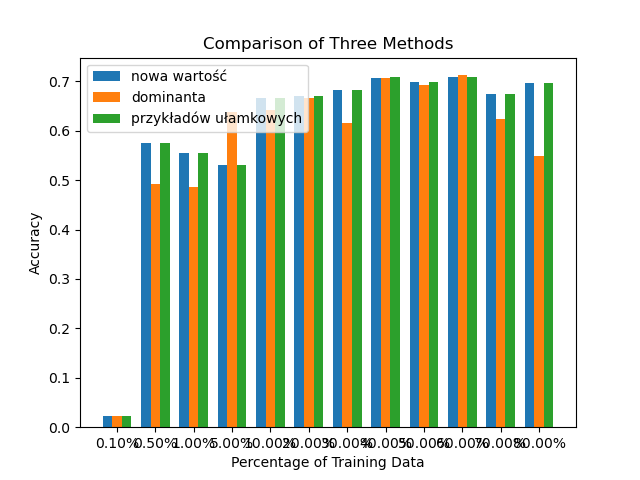
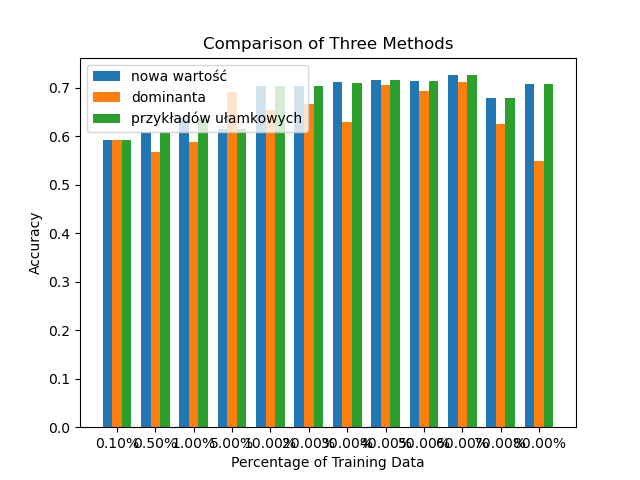
add visualization for f1 score and default prediction for decision tree

diff --git a/main.py b/main.py
@@ -1,9 +1,10 @@
 from dataset_utils import get_data, split_random_to_train_and_test_data, split_random_to_train_and_test_data_diff_methods
 from decision_tree import DecisionTree
-from visualization_utils import visualize_acc, visualize_metrics_of_confusion_matrix, visualize_class_counter, visualize_tree, visulate_acc_per_input_method, visulate_acc_per_replacement_method
+from visualization_utils import visualize_acc, visualize_metrics_of_confusion_matrix, visualize_class_counter, visualize_tree, visulate_acc_per_input_method, visulate_acc_per_replacement_method, visulate_f1_per_replacement_method
 from utils import ATTRS_NAMES, CLASS_VALUES, MAX_DEPTH, PERCENT_OF_TRAIN_DATA, ATTR_TO_INDEX
 import numpy as np
 import random
+from sklearn.metrics import f1_score, confusion_matrix
 
 row_attrs, class_vals = get_data("car.data")
 """
@@ -133,28 +134,46 @@ visulate_acc_per_input_method(list_of_acc, labels_for_percent_of_train_data)
 list_of_percent_train_data = [0.1, 0.5, 1, 5, 10, 20, 30, 40, 50, 60, 70, 80]
 labels_for_percent_of_train_data = []
 list_of_acc = []
+list_of_f1 = []
+
+unique_values, counts = np.unique(class_vals, return_counts=True)
+default_prediction = unique_values[np.argmax(counts)]
+
 for i in list_of_percent_train_data:
 
     print(i)
     train_data, test_data, train_data_mode, test_data_mode, train_data_distrib, test_data_distrib = \
         split_random_to_train_and_test_data_diff_methods(row_attrs, class_vals, i)
 
-    decision_tree = DecisionTree(train_data, MAX_DEPTH, method='gini', FEM=False)
+    decision_tree = DecisionTree(train_data, MAX_DEPTH, default_prediction, method='gini', FEM=False)
     acc = decision_tree.calculate_acc(test_data)
+    cm = confusion_matrix(test_data[1], [decision_tree.predict_decision_tree(row) for i, row in enumerate(test_data[0]["attrs_vals"])])
+    f1 = f1_score(test_data[1], [decision_tree.predict_decision_tree(row) for i, row in enumerate(test_data[0]["attrs_vals"])], average='weighted')
     list_of_acc.append(acc)
+    list_of_f1.append(f1)
     print(acc)
+    print(f1)
 
-    decision_tree = DecisionTree(train_data_mode, MAX_DEPTH, method='gini', FEM=False)
+    decision_tree = DecisionTree(train_data_mode, MAX_DEPTH, default_prediction, method='gini', FEM=False)
     acc = decision_tree.calculate_acc(test_data_mode)
+    cm = confusion_matrix(test_data_mode[1], [decision_tree.predict_decision_tree(row) for i, row in enumerate(test_data_mode[0]["attrs_vals"])])
+    f1 = f1_score(test_data_mode[1], [decision_tree.predict_decision_tree(row) for i, row in enumerate(test_data_mode[0]["attrs_vals"])], average='weighted')
     list_of_acc.append(acc)
+    list_of_f1.append(f1)
     print(acc)
+    print(f1)
 
-    decision_tree = DecisionTree(train_data, MAX_DEPTH, method='gini', FEM=True)
+    decision_tree = DecisionTree(train_data, MAX_DEPTH, default_prediction, method='gini', FEM=True)
     acc = decision_tree.calculate_acc(test_data)
+    cm = confusion_matrix(test_data[1], [decision_tree.predict_decision_tree(row) for i, row in enumerate(test_data[0]["attrs_vals"])])
+    f1 = f1_score(test_data[1], [decision_tree.predict_decision_tree(row) for i, row in enumerate(test_data[0]["attrs_vals"])], average='weighted')
     list_of_acc.append(acc)
+    list_of_f1.append(f1)
     print(acc)
+    print(f1)
 
     labels_for_percent_of_train_data.append('%.2f%%' % (i))
 
 visualize_tree(tree=decision_tree.tree, attrs_names=ATTRS_NAMES,output_name="tree.png")
 visulate_acc_per_replacement_method(list_of_acc, labels_for_percent_of_train_data)
+visulate_f1_per_replacement_method(list_of_f1, labels_for_percent_of_train_data)

diff --git a/decision_tree.py b/decision_tree.py
@@ -23,10 +23,11 @@ class DecisionTree():
     tree = None
     train_data = None
 
-    def __init__(self, train_data, max_depth, method="entropy", FEM=True):
+    def __init__(self, train_data, max_depth, default_prediction, method="entropy", FEM=True):
         self.train_data = copy.deepcopy(train_data)
         tree = self.genenerate_tree(train_data, max_depth, method, FEM)
         self.tree = tree
+        self.default_prediction = default_prediction
 
     def calculate_entropy(self, class_vals, uniq_class_vals, weights):
         """
@@ -109,7 +110,7 @@ class DecisionTree():
             "tn": 0  # not detected and it's not this class
         }
         for i, row in enumerate(test_data[0]["attrs_vals"]):
-            decision = self.predict_random_forest(row)
+            decision = self.predict_decision_tree(row)
             if decision == checked_class:
                 if checked_class == test_data[1][i]:
                     confusion_matrix["tp"] += 1
@@ -278,11 +279,11 @@ class DecisionTree():
             attr_index = node.attr_index
             input_attr_val = input_data[attr_index]
             if input_attr_val not in node.branches:
-                return None
+                return self.default_prediction
             node = node.branches[input_attr_val]
         if isinstance(node, Leaf):
             return node.decision
-        return None
+        return self.default_prediction
 
     def predict_decision_tree(self, input_data):
         """

diff --git a/visualization_utils.py b/visualization_utils.py
@@ -202,3 +202,38 @@ def visulate_acc_per_replacement_method(list_of_acc, labels):
     
     plt.savefig("metody_test.png")
     plt.show()
+
+
+def visulate_f1_per_replacement_method(list_of_f1, labels):
+    """
+    Visualizes the F1 score using a bar graph for three replacement methods.
+
+    Parameters:
+    list_of_f1 (list): A list of f1 score values.
+    labels (list): A list of x-axis values.
+
+    Returns:
+    None
+    """
+    # Split the f1 score values for the three methods
+    method1_f1 = list_of_f1[0::3]
+    method2_f1 = list_of_f1[1::3]
+    method3_f1 = list_of_f1[2::3]
+    
+    bar_width = 0.25  # Adjust bar width for three methods
+    index = np.arange(len(labels))
+    
+    fig, ax = plt.subplots()
+    _ = ax.bar(index, method1_f1, bar_width, label='nowa wartość')
+    _ = ax.bar(index + bar_width, method2_f1, bar_width, label='dominanta')
+    _ = ax.bar(index + 2 * bar_width, method3_f1, bar_width, label='przykładów ułamkowych')
+    
+    ax.set_xlabel('Percentage of Training Data')
+    ax.set_ylabel('F1 score')
+    ax.set_title('Comparison of Three Methods')
+    ax.set_xticks(index + bar_width)
+    ax.set_xticklabels(labels)
+    ax.legend()
+    
+    plt.savefig("metody_test_f1.png")
+    plt.show()
